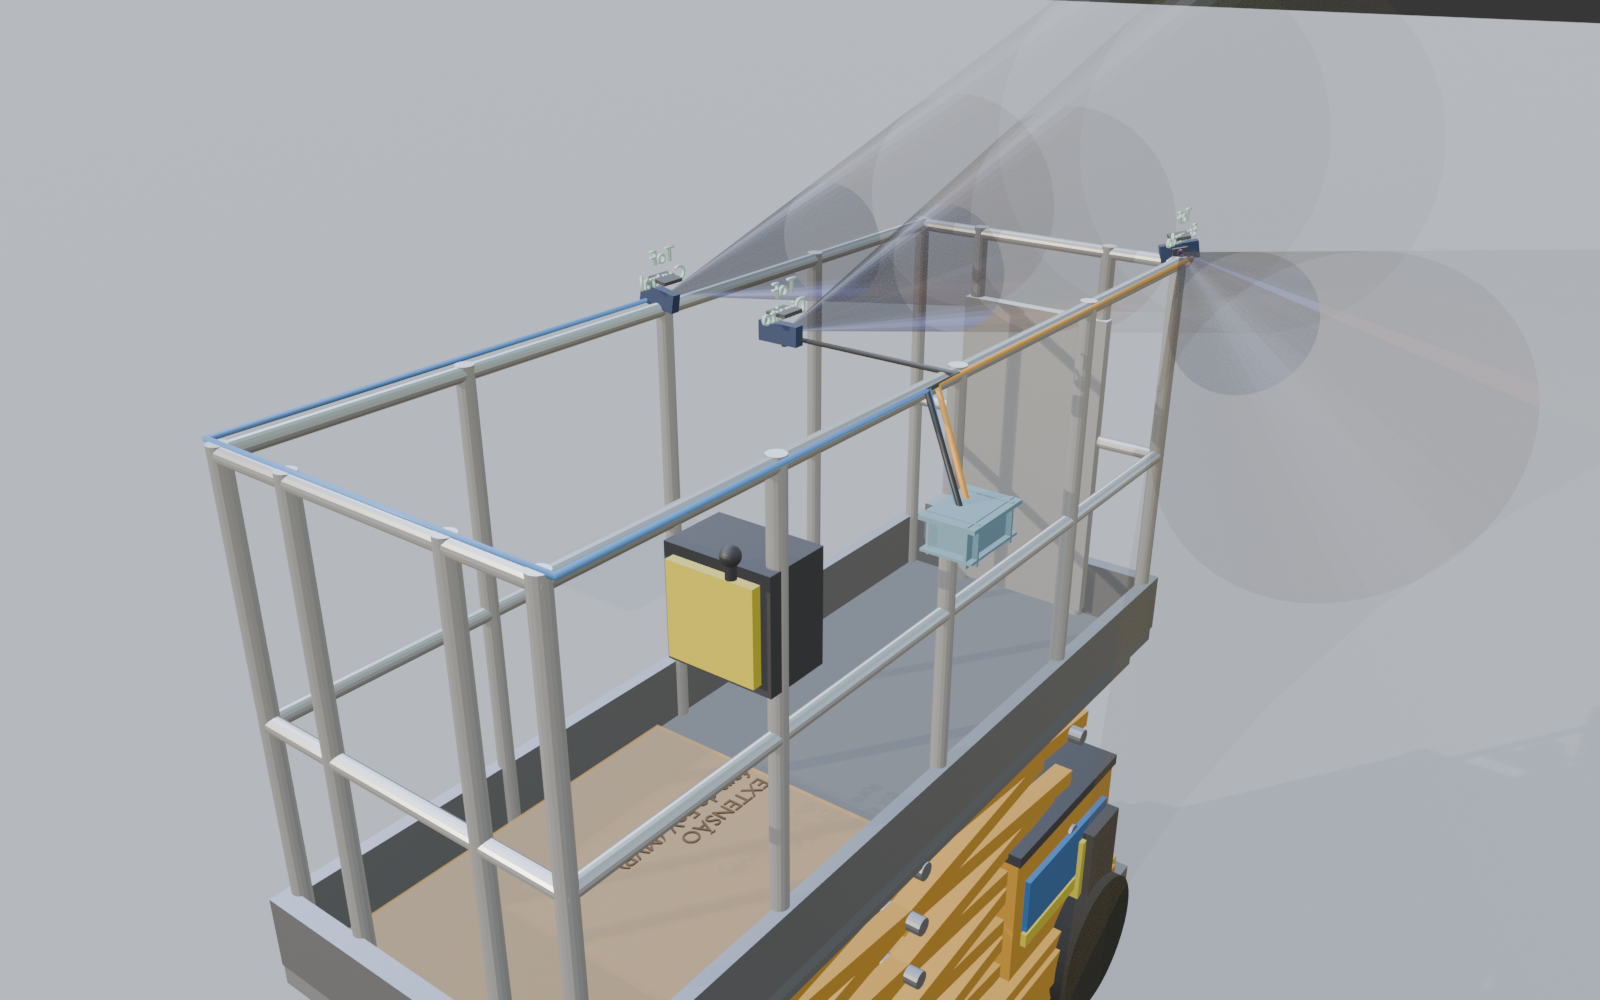
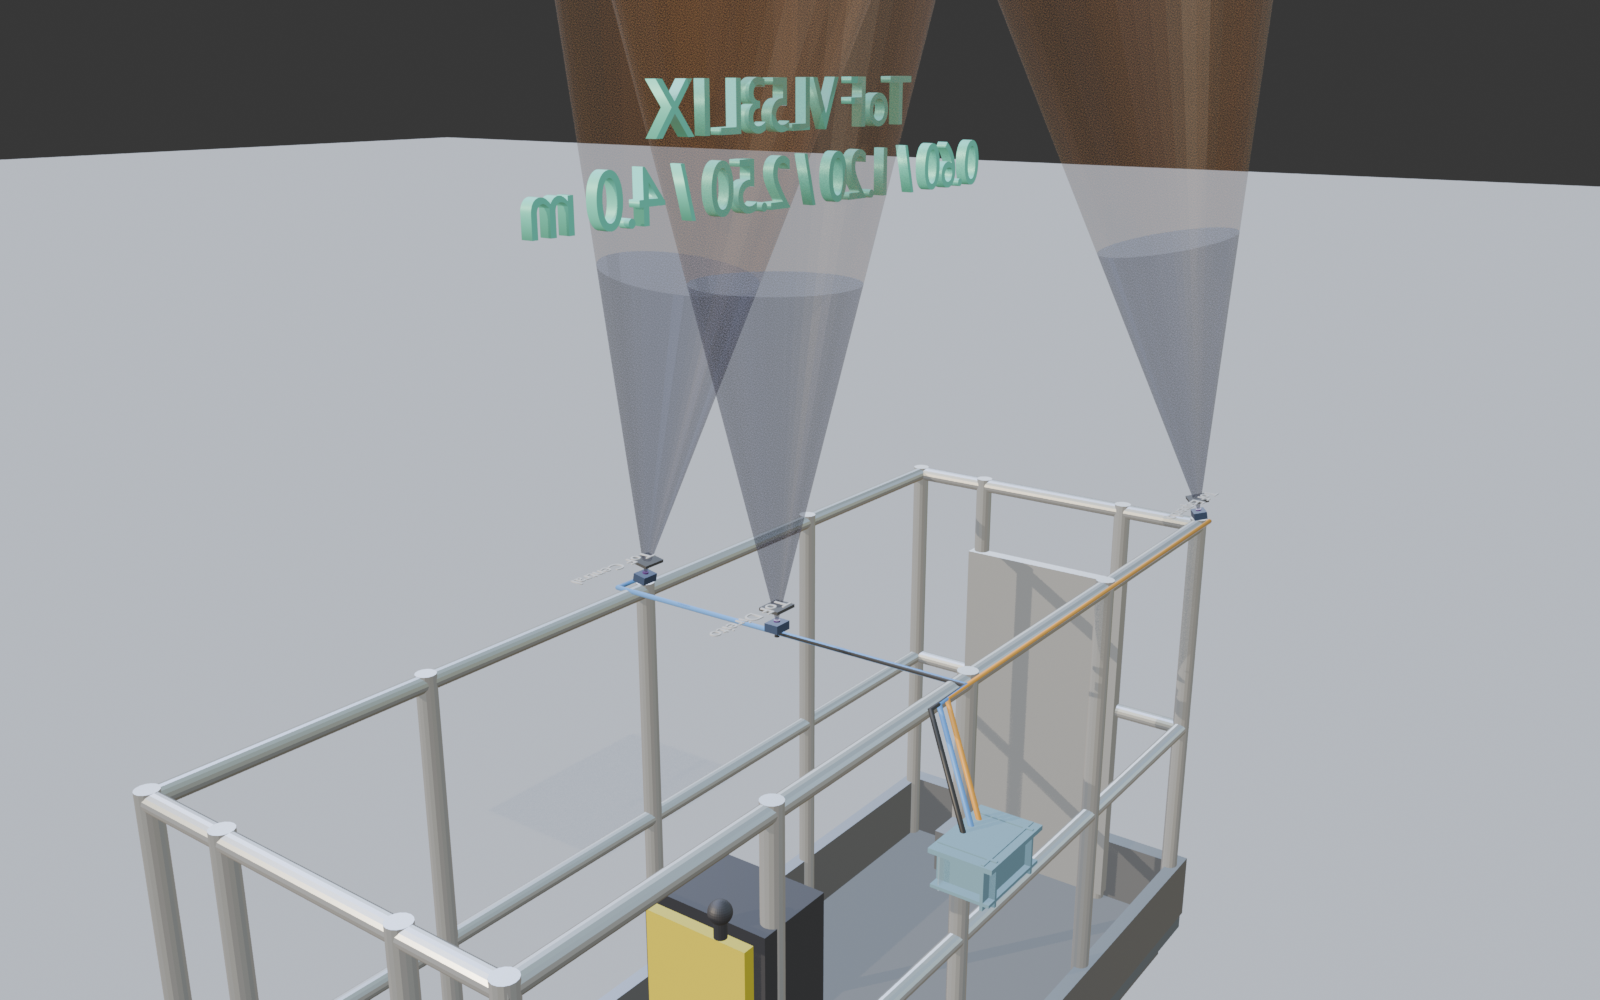
Rebuild ToF layout on a +Z optical-axis model.
Recreate cones apex-at-sensor, keep all poses on the fixed deck from config.h, and fix sensor body scale so matrix_world no longer resets modules to 1 m cubes.

diff --git a/esp32_anti_esmagamento/config.h b/esp32_anti_esmagamento/config.h
@@ -77,6 +77,7 @@ struct Vec3 {
 
 // Poses no DECK FIXO apenas (nenhum sensor em X ≥ EXTENSAO_X_INICIO_M).
 // SENSOR_PONTA_B fica na borda dianteira do principal (~0,05 m), não na ponta da extensão.
+// Blender ToF: eixo óptico do empty = local +Z (= SENSOR_DIR). US legado: local +X.
 static const Vec3 SENSOR_POS[NUM_SENSORES] = {
   { -1.015f,  0.355f, TOPO_RAIL_Z_M },  // ponta traseira (fixo)
   {  0.000f, -0.355f, TOPO_RAIL_Z_M },  // meio (fixo)

diff --git a/README.md b/README.md
@@ -136,21 +136,17 @@ Braço/ferramenta no FoV pode parecer obstáculo.
 
 ### 3) Cobertura do volume do cesto
 
-**Solução geométrica no modelo 3D** — disposição **escalonada** no **deck fixo** (não colinear; **nada** na extensão):
+**Modelo forte de disposição (MVP)** — deck **fixo** apenas; eixo óptico = **local +Z** (cones ToF reconstruídos assim):
 
-1. **Ponta A (traseira)** — `X ≈ −1,015 m`  
-2. **Meio** — lateral de referência, `X ≈ 0`, **~10° para dentro**  
-3. **Dianteiro no limiar do fixo** — `X ≈ 0,05 m` (antes do roll-out em `X ≳ 0,105 m`), apontamento ~vertical  
+| Sensor | Pose `(X, Y, Z)` m | Apontamento |
+|--------|-------------------|-------------|
+| **Esquerdo** (traseira) | `(-1,015 · 0,355 · 2,16)` | ~9° in + convergência leve |
+| **Central** (meio) | `(0 · −0,355 · 2,16)` | ~10° para dentro (+Y) |
+| **Direito** (limiar fixo) | `(0,05 · 0 · 2,16)` | vertical — **não** cobre a extensão |
 
-**Apontamento (cobertura do cesto principal, FoV ~27°):**
+Restrição dura: **todos** com `X < EXTENSAO_X_INICIO_M (0,105)`. Fonte: `config.h` (`SENSOR_POS` / `SENSOR_DIR`).
 
-| Sensor | Inclinação |
-|--------|------------|
-| **Meio** | **~10° para dentro** do cesto |
-| **Ponta traseira** | **~9° para dentro** + leve convergência |
-| **Dianteiro (fixo)** | ~vertical — não cobre a extensão |
-
-> A ponta da extensão permanece descoberta de propósito no MVP. Ver *Deck extensível*.
+> Blender: `Grupo_Sensor_ToF_*` com **+Z = feixe**; volumes `Volume_ToF_{Alcance,Amarelo,Vermelho,Bloqueio}_*`. US legado usa +X como feixe (mesmo aim em world).
 
 ### 4) Ultrassônico × ToF
 